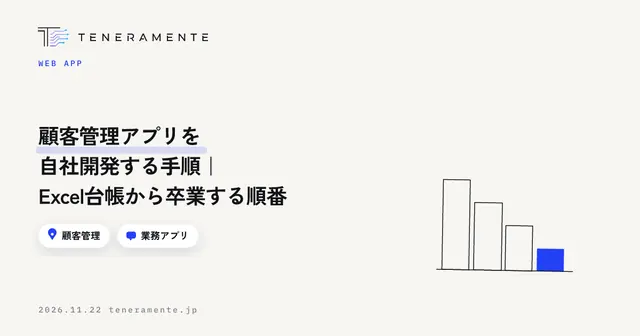
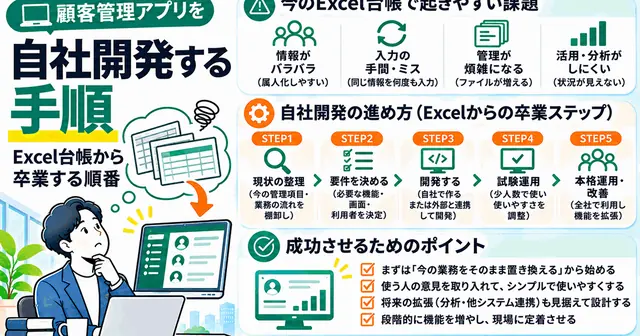
covers: 記事のトップ画像を ChatGPT の画像に差し替え（m203・k056）

diff --git a/mieroom/articles/chintai-tenpo-gbp-unyo.html b/mieroom/articles/chintai-tenpo-gbp-unyo.html
@@ -13,12 +13,15 @@
 <meta property="og:description" content="賃貸仲介の店舗がGoogleビジネスプロフィールを運用し、地図検索から来店・問い合わせにつなげるまでの手順をまとめました。最初に埋める基本情報、写真と投稿の出し方、口コミへの対応ルール、地図から来た反響の受け方、毎月の確認項目とよくある失敗までを順番に整理しています。">
 <meta property="og:url" content="https://mieroom.cloud/articles/chintai-tenpo-gbp-unyo.html">
 <meta property="og:site_name" content="ミエルーム">
+<meta property="og:image" content="https://mieroom.cloud/assets/covers/chintai-tenpo-gbp-unyo.png">
+<meta property="og:image:width" content="1200">
+<meta property="og:image:height" content="675">
 <meta name="twitter:card" content="summary_large_image">
 <link rel="preconnect" href="https://fonts.googleapis.com">
 <link rel="preconnect" href="https://fonts.gstatic.com" crossorigin>
 <link href="https://fonts.googleapis.com/css2?family=Noto+Sans+JP:wght@400;500;700;900&family=Zen+Kaku+Gothic+New:wght@500;700;900&display=swap" rel="stylesheet">
 <link rel="stylesheet" href="../assets/site.css">
-<script type="application/ld+json">{"@context":"https://schema.org","@graph":[{"@type":"BlogPosting","headline":"賃貸仲介店舗のGoogleビジネスプロフィール運用｜地図検索から来店につなげる手順","description":"賃貸仲介の店舗がGoogleビジネスプロフィールを運用し、地図検索から来店・問い合わせにつなげるまでの手順をまとめました。最初に埋める基本情報、写真と投稿の出し方、口コミへの対応ルール、地図から来た反響の受け方、毎月の確認項目とよくある失敗までを順番に整理しています。","datePublished":"2026-11-21","dateModified":"2026-11-21","inLanguage":"ja","mainEntityOfPage":"https://mieroom.cloud/articles/chintai-tenpo-gbp-unyo.html","articleSection":"集客・広告","author":{"@type":"Organization","name":"ミエルーム編集部"},"publisher":{"@type":"Organization","name":"株式会社TENERAMENTE","logo":{"@type":"ImageObject","url":"https://teneramente.jp/assets/img/favicon-512.png"}},"keywords":"Googleビジネスプロフィール, MEO, 口コミ対応, 店舗集客, 賃貸仲介"},{"@type":"BreadcrumbList","itemListElement":[{"@type":"ListItem","position":1,"name":"ミエルーム","item":"https://mieroom.cloud/"},{"@type":"ListItem","position":2,"name":"ブログ","item":"https://mieroom.cloud/blog.html"},{"@type":"ListItem","position":3,"name":"賃貸仲介店舗のGoogleビジネスプロフィール運用｜地図検索から来店につなげる手順","item":"https://mieroom.cloud/articles/chintai-tenpo-gbp-unyo.html"}]},{"@type":"FAQPage","mainEntity":[{"@type":"Question","name":"Googleビジネスプロフィールを整えると、すぐに来店が増えますか？","acceptedAnswer":{"@type":"Answer","text":"すぐに変わるのは来店数ではなく、調べた人が判断できるようになる点です。営業時間・来店方法・駐車場が書かれていれば、迷って離れる人が減ります。効果を見るときは、順位ではなく、地図経由の電話と来店が台帳に何件記録されたかで確かめてください。"}},{"@type":"Question","name":"口コミに事実と違うことを書かれた場合はどうすればよいですか？","acceptedAnswer":{"@type":"Answer","text":"返信欄で反論しないでください。規約に反する内容であればプラットフォームに削除を申し立てる手段があります。それ以外の場合は、事実関係に触れずに、来店いただいた点への感謝と、改善に向けた姿勢を短く書くに留めます。読んでいるのは次に相談しようとしている人です。"}},{"@type":"Question","name":"店舗名に「〇〇駅前」や「賃貸」と入れてもよいですか？","acceptedAnswer":{"@type":"Answer","text":"実際に店頭や登記で使っている名称であれば問題ありませんが、検索で見つかりやすくするために後から足した語は避けてください。プラットフォームの規約に抵触するほか、来店した方が別の店舗だと感じる原因になります。地域や取り扱いは、名前ではなく説明や情報の欄に書いてください。"}},{"@type":"Question","name":"写真は何を優先して載せればよいですか？","acceptedAnswer":{"@type":"Answer","text":"外観が最優先です。道から見たときの見え方が分かる角度で、看板と入口が写っているものを載せてください。次に相談カウンターの写った内観です。物件の写真を並べるよりも、店舗がどんな場所かが分かる写真のほうが、来店の判断に効きます。"}},{"@type":"Question","name":"複数店舗ある場合、情報はどう揃えればよいですか？","acceptedAnswer":{"@type":"Answer","text":"書く項目と並び順を本部で決めて、各店舗が同じ形で埋めるのが確実です。営業時間・取り扱い・来店方法・駐車場の4つは必ず全店舗で埋めてください。口コミの返信も、誰が返すかと書かないことを共通のルールにしておくと、店舗ごとの差が出ません。"}}]}]}</script>
+<script type="application/ld+json">{"@context":"https://schema.org","@graph":[{"@type":"BlogPosting","headline":"賃貸仲介店舗のGoogleビジネスプロフィール運用｜地図検索から来店につなげる手順","description":"賃貸仲介の店舗がGoogleビジネスプロフィールを運用し、地図検索から来店・問い合わせにつなげるまでの手順をまとめました。最初に埋める基本情報、写真と投稿の出し方、口コミへの対応ルール、地図から来た反響の受け方、毎月の確認項目とよくある失敗までを順番に整理しています。","datePublished":"2026-11-21","dateModified":"2026-11-21","inLanguage":"ja","mainEntityOfPage":"https://mieroom.cloud/articles/chintai-tenpo-gbp-unyo.html","image":"https://mieroom.cloud/assets/covers/chintai-tenpo-gbp-unyo.png","articleSection":"集客・広告","author":{"@type":"Organization","name":"ミエルーム編集部"},"publisher":{"@type":"Organization","name":"株式会社TENERAMENTE","logo":{"@type":"ImageObject","url":"https://teneramente.jp/assets/img/favicon-512.png"}},"keywords":"Googleビジネスプロフィール, MEO, 口コミ対応, 店舗集客, 賃貸仲介"},{"@type":"BreadcrumbList","itemListElement":[{"@type":"ListItem","position":1,"name":"ミエルーム","item":"https://mieroom.cloud/"},{"@type":"ListItem","position":2,"name":"ブログ","item":"https://mieroom.cloud/blog.html"},{"@type":"ListItem","position":3,"name":"賃貸仲介店舗のGoogleビジネスプロフィール運用｜地図検索から来店につなげる手順","item":"https://mieroom.cloud/articles/chintai-tenpo-gbp-unyo.html"}]},{"@type":"FAQPage","mainEntity":[{"@type":"Question","name":"Googleビジネスプロフィールを整えると、すぐに来店が増えますか？","acceptedAnswer":{"@type":"Answer","text":"すぐに変わるのは来店数ではなく、調べた人が判断できるようになる点です。営業時間・来店方法・駐車場が書かれていれば、迷って離れる人が減ります。効果を見るときは、順位ではなく、地図経由の電話と来店が台帳に何件記録されたかで確かめてください。"}},{"@type":"Question","name":"口コミに事実と違うことを書かれた場合はどうすればよいですか？","acceptedAnswer":{"@type":"Answer","text":"返信欄で反論しないでください。規約に反する内容であればプラットフォームに削除を申し立てる手段があります。それ以外の場合は、事実関係に触れずに、来店いただいた点への感謝と、改善に向けた姿勢を短く書くに留めます。読んでいるのは次に相談しようとしている人です。"}},{"@type":"Question","name":"店舗名に「〇〇駅前」や「賃貸」と入れてもよいですか？","acceptedAnswer":{"@type":"Answer","text":"実際に店頭や登記で使っている名称であれば問題ありませんが、検索で見つかりやすくするために後から足した語は避けてください。プラットフォームの規約に抵触するほか、来店した方が別の店舗だと感じる原因になります。地域や取り扱いは、名前ではなく説明や情報の欄に書いてください。"}},{"@type":"Question","name":"写真は何を優先して載せればよいですか？","acceptedAnswer":{"@type":"Answer","text":"外観が最優先です。道から見たときの見え方が分かる角度で、看板と入口が写っているものを載せてください。次に相談カウンターの写った内観です。物件の写真を並べるよりも、店舗がどんな場所かが分かる写真のほうが、来店の判断に効きます。"}},{"@type":"Question","name":"複数店舗ある場合、情報はどう揃えればよいですか？","acceptedAnswer":{"@type":"Answer","text":"書く項目と並び順を本部で決めて、各店舗が同じ形で埋めるのが確実です。営業時間・取り扱い・来店方法・駐車場の4つは必ず全店舗で埋めてください。口コミの返信も、誰が返すかと書かないことを共通のルールにしておくと、店舗ごとの差が出ません。"}}]}]}</script>
 <style id="mp-nav-fit">
 /* 狭い画面ではヘッダーのボタンを小さくして、右にはみ出さないようにする */
 @media (max-width: 640px) {
@@ -72,7 +75,9 @@
     </div>
   </div>
 </section>
-
+<div class="post-cover">
+  <div class="band band--img"><img src="../assets/covers/chintai-tenpo-gbp-unyo.webp" alt="賃貸仲介店舗のGoogleビジネスプロフィール運用｜地図検索から来店につなげる手順" width="1200" height="675" decoding="async"></div>
+</div>
 <div class="post-body">
 <p>賃貸仲介の集客はポータルサイトが中心ですが、「この駅の近くの不動産屋」と地図で探してから店舗に連絡する人も一定数います。結論から申し上げると、<strong>地図検索から来る人はポータル経由の反響よりも来店に近い段階にいるため、受け入れる情報を整えておくだけで取りこぼしが減ります</strong>。この記事では、Googleビジネスプロフィール（<em>Google Business Profile</em>）の基本情報の埋め方から、口コミへの対応、地図から来た反響の受け方までを手順として整理します。</p>
 <div class="conclusion"><h4>この記事の結論</h4><p>地図検索の対策は順位を上げる作業ではなく、<strong>探している人の質問に先に答えておく作業</strong>です。営業時間・取り扱い・来店の仕方・駐車場の有無を書き切り、写真と投稿で店舗の中身を見せ、口コミへの返信を店舗のルールにする。この4つが揃えば、地図から来た問い合わせがそのまま来店につながります。</p></div>

diff --git a/mieroom/blog.html b/mieroom/blog.html
@@ -205,7 +205,7 @@ src="https://www.facebook.com/tr?id=28086413637650888&ev=PageView&noscript=1"
       </a>
 
       <a class="bpost" data-cat="集客・広告" data-text="賃貸仲介店舗のGoogleビジネスプロフィール運用｜地図検索から来店につなげる手順 Googleビジネスプロフィール MEO 口コミ対応 店舗集客 賃貸仲介" href="articles/chintai-tenpo-gbp-unyo.html">
-        <div class="bcover bcover--text"><span class="bct-cat">集客・広告</span><b>賃貸仲介店舗のGoogleビジネスプロフィール運用｜地図検索から来店につなげる手順</b></div>
+        <div class="bcover bcover--img"><img src="assets/covers/chintai-tenpo-gbp-unyo-card.webp" alt="賃貸仲介店舗のGoogleビジネスプロフィール運用｜地図検索から来店につなげる手順" loading="lazy" decoding="async" width="640" height="360"></div>
         <div class="bbody">
           <div class="bmeta"><span class="bcat">集客・広告</span><span class="bdate">2026.11.21</span></div>
           <h3>賃貸仲介店舗のGoogleビジネスプロフィール運用｜地図検索から来店につなげる手順</h3>
